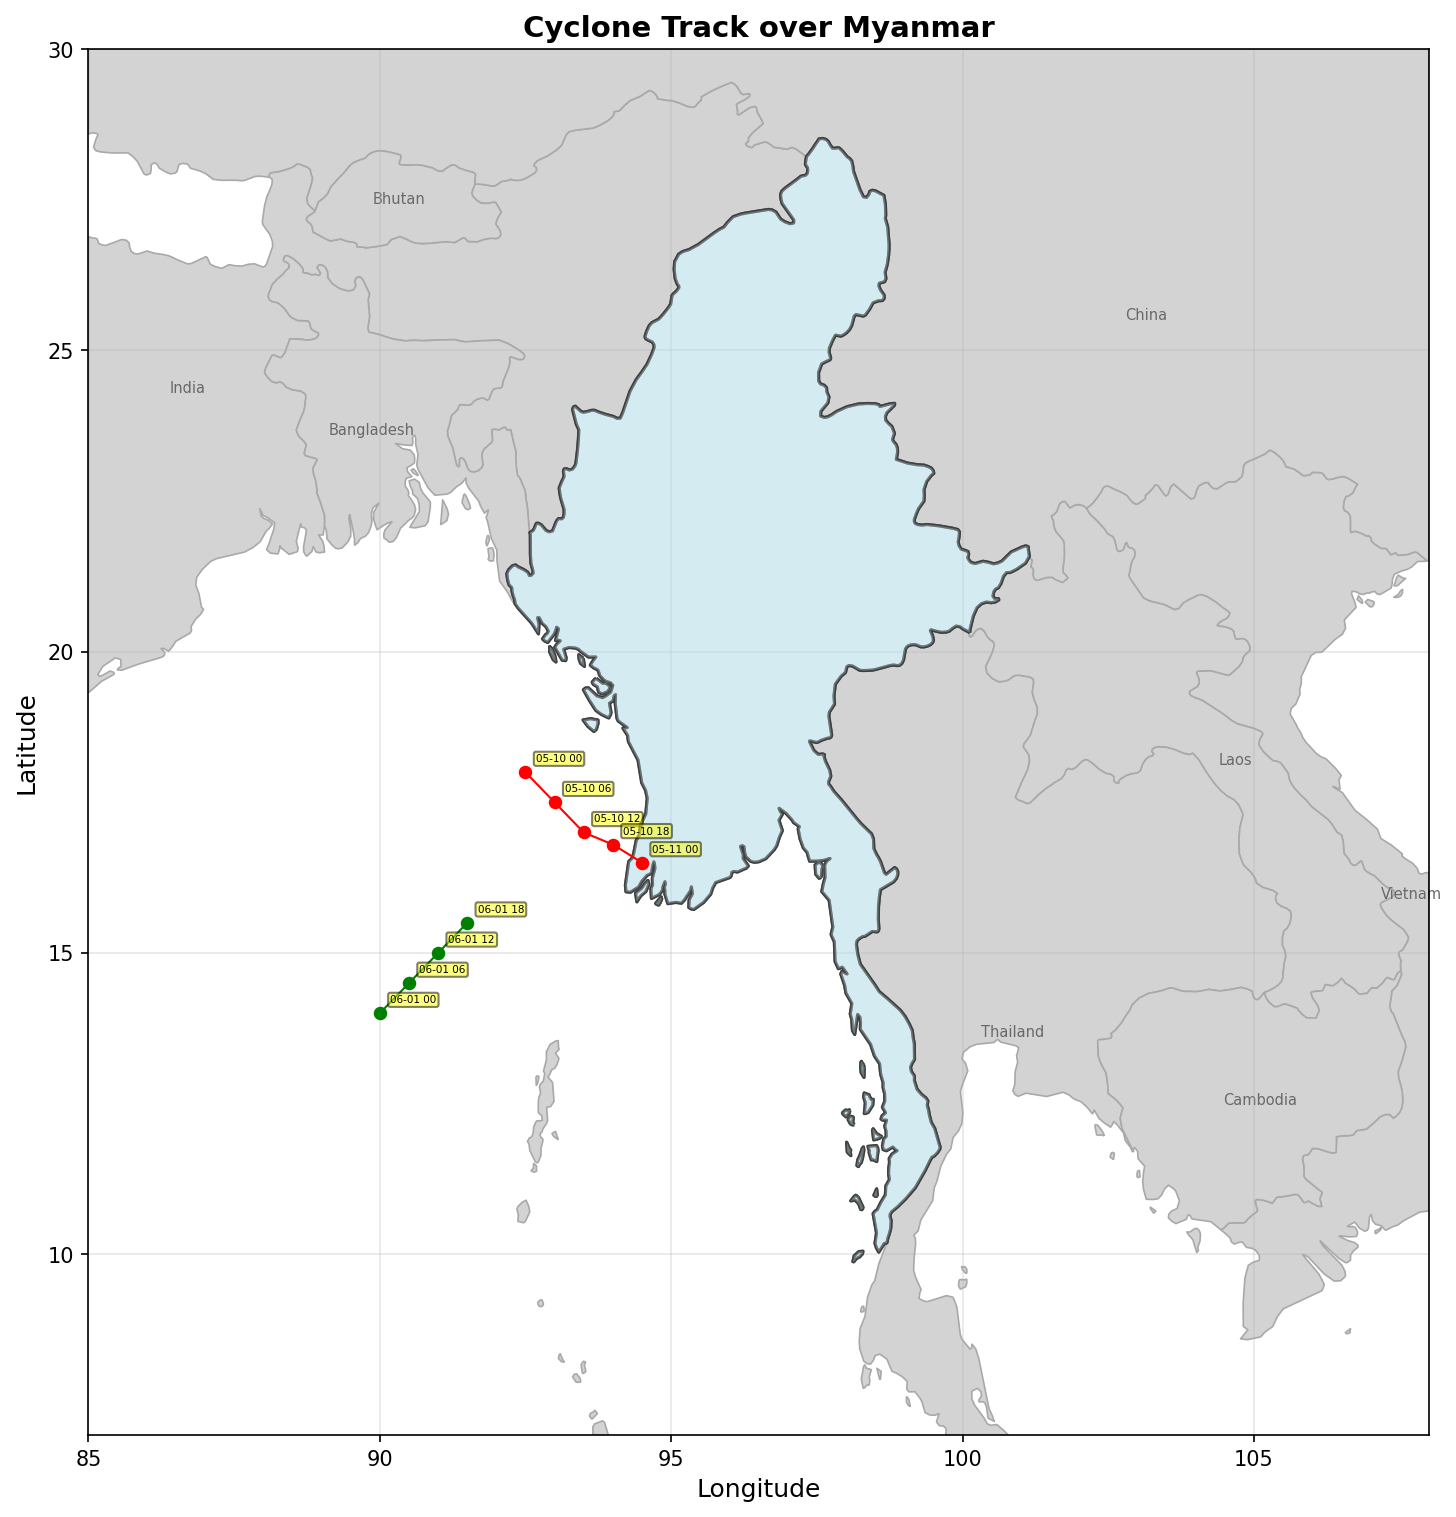
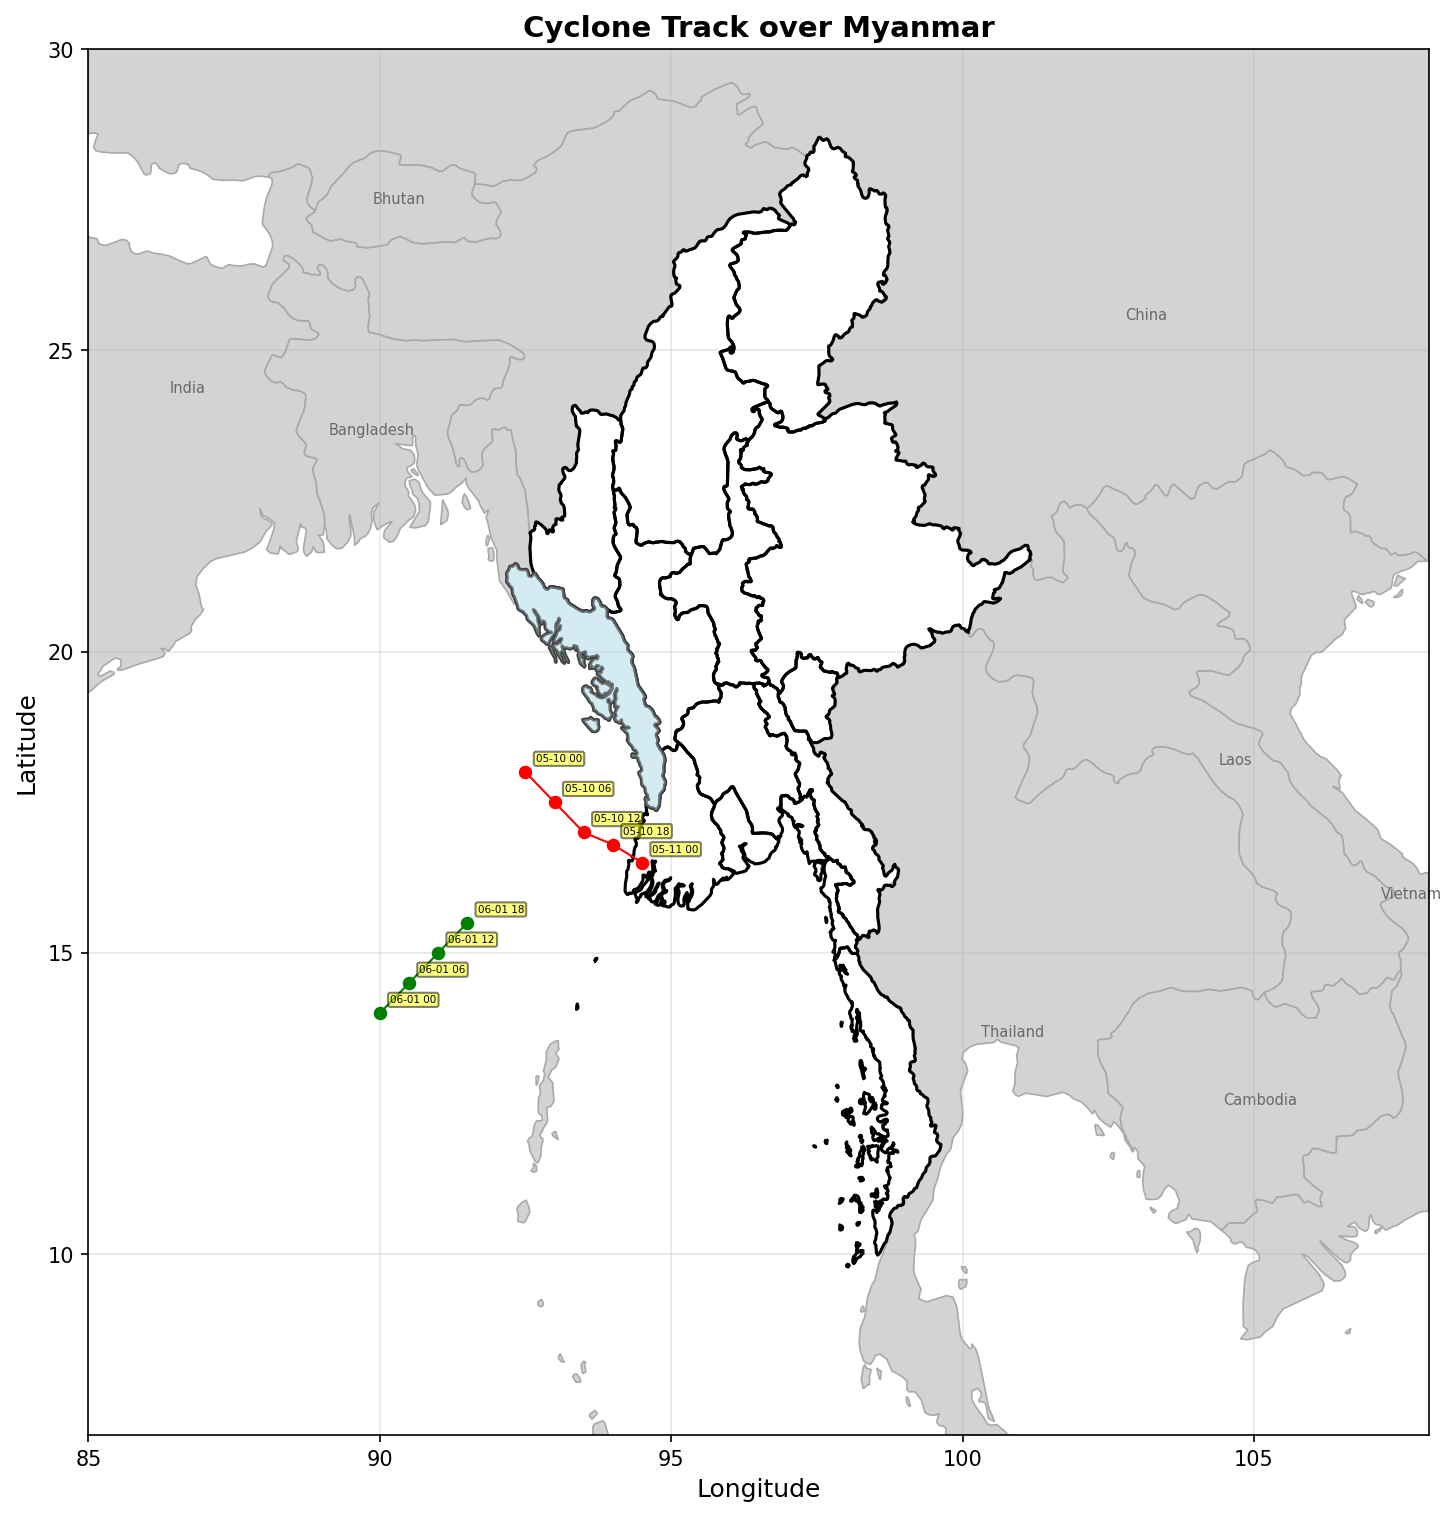
fix(test_image): use Natural Earth admin-1 boundaries so only Rakhine is highlighted
Previously _make_myanmar_boundaries() assigned ADM1_EN="Rakhine" to the
entire Myanmar admin-0 polygon, making the whole country appear light blue.
Now loads Natural Earth 10m admin-1 states/provinces, filtered to Myanmar,
so each state gets its own polygon and only Rakhine is highlighted.

Changed region(s): [[0.34, 0.0929, 0.7109, 0.8365]]

diff --git a/tests/test_images/generate_storm_track_test_image.py b/tests/test_images/generate_storm_track_test_image.py
@@ -29,20 +29,23 @@ OUTPUT_PATH = pathlib.Path(__file__).parent / "storm_track_with_neighbours.png"
 
 
 def _make_myanmar_boundaries() -> gpd.GeoDataFrame:
-    """Load Myanmar admin-0 boundary from Natural Earth as a mock adm1 GDF.
+    """Load Myanmar admin-1 boundaries from Natural Earth.
+
+    Uses Natural Earth 10m states/provinces data to get individual Myanmar
+    states and regions. The ``ADM1_EN`` column is populated from the Natural
+    Earth ``name`` field so that only the Rakhine polygon is highlighted by
+    ``plot_storm_track``.
 
     Returns:
-        GeoDataFrame with a single row representing Myanmar, with an ``ADM1_EN``
-        column set to ``"Rakhine"`` so the highlight branch in ``plot_storm_track``
-        is exercised.
+        GeoDataFrame of Myanmar admin-1 units with an ``ADM1_EN`` column.
     """
     shp_path = shpreader.natural_earth(
-        resolution="50m", category="cultural", name="admin_0_countries"
+        resolution="10m", category="cultural", name="admin_1_states_provinces"
     )
-    world = gpd.read_file(shp_path)
-    mmr = world[world["NAME"] == "Myanmar"].copy()
-    mmr["ADM1_EN"] = "Rakhine"
-    return mmr.reset_index(drop=True)
+    adm1 = gpd.read_file(shp_path)
+    mmr_adm1 = adm1[adm1["admin"] == "Myanmar"].copy()
+    mmr_adm1["ADM1_EN"] = mmr_adm1["name"]
+    return mmr_adm1.reset_index(drop=True)
 
 
 def _make_mock_storms() -> gpd.GeoDataFrame: